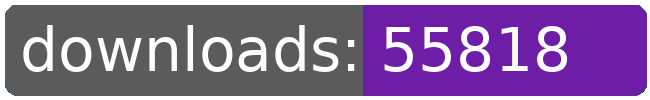
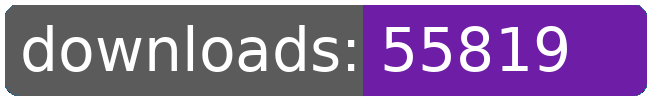
dl log written

Changed region(s): [[0.8, 0.3, 0.8923, 0.72]]

diff --git a/README.md b/README.md
@@ -21,8 +21,8 @@
 		<td>3740</td>
 		<td>3758</td>
 		<td>3773</td>
-		<td>3777</td>
-		<td>+ 4</td>
+		<td>3778</td>
+		<td>+ 5</td>
 	</tr>
 	<tr>
 		<td>aberrant.kahet.outfitter</td>
@@ -274,8 +274,8 @@
 		<td></td>
 		<td></td>
 		<td></td>
-		<td>55818</td>
-		<td>79</td>
+		<td>55819</td>
+		<td>80</td>
 	</tr>
 </table>
 </sub></sup>
@@ -322,8 +322,8 @@
 		<td>3740</td>
 		<td>3758</td>
 		<td>3773</td>
-		<td>3777</td>
-		<td>+ 4</td>
+		<td>3778</td>
+		<td>+ 5</td>
 	</tr>
 	<tr>
 		<td>capture.archons</td>
@@ -553,8 +553,8 @@
 		<td></td>
 		<td></td>
 		<td></td>
-		<td>55818</td>
-		<td>79</td>
+		<td>55819</td>
+		<td>80</td>
 	</tr>
 </table>
 </sub></sup>
